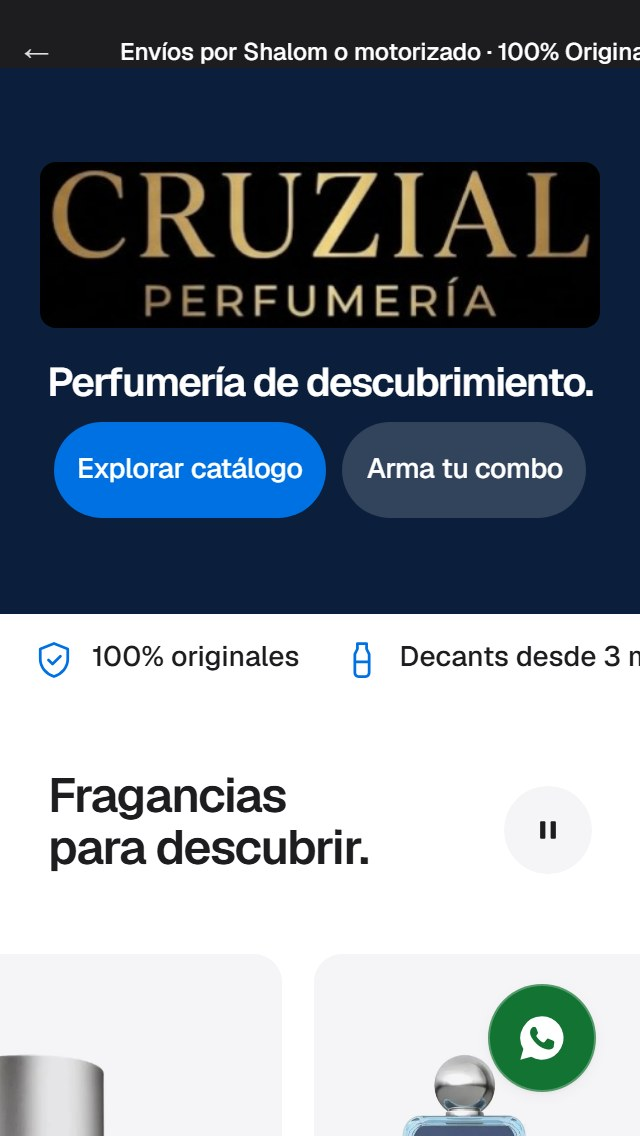
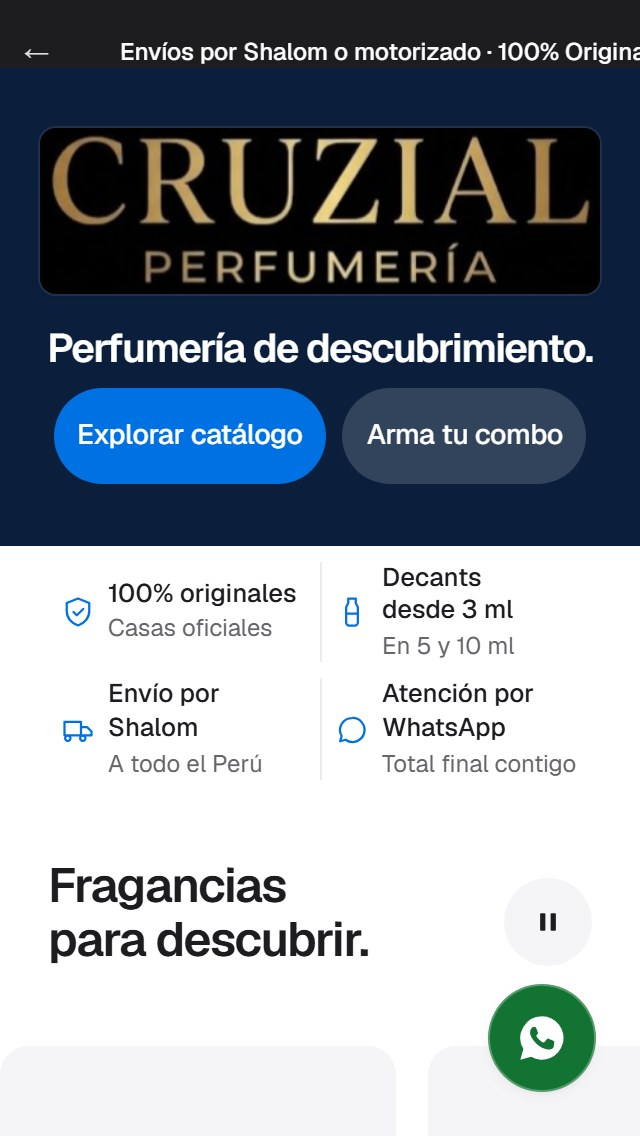
design(hero): F adjustments - plate ring, essentials as 2x2 with short copy, hero 42% on short phones
- plate: 1px ring (navy 92% + white 8%) and a faint lift so the black plaque reads as intentional
- essentials strip: no horizontal scroll; A/B/C measured, B (2x2, 3-4 word second line) chosen
- hero 45%, 42% when <=700px tall; first carousel card visible 156/81/68/45px at 390x844/375x667/360x640/320x568
- axe 0 at 1440/768/390/375/360/320; docs section 13

Experiment on claude/hero-variants; nothing merged.

diff --git a/apps/web/src/app/parfums/page.module.css b/apps/web/src/app/parfums/page.module.css
@@ -689,45 +689,75 @@
   }
 }
 
-/* Variant F on phones: the hero is 45% of the screen, so the essentials row becomes one scrollable strip of titles (the
-   second line stays in the DOM and in the accessibility tree) and the product section starts closer, so the carousel
-   cards peek on short screens such as the iPhone SE. */
+/* Variant F on phones. The hero is 45% of the screen (42% when it is 700px tall or less), so the product section starts closer
+   and the essentials row becomes a 2x2 grid with short copy (3-4 words, both lines visible). Three forms were measured
+   (A less padding, B 2x2 short copy, C smaller icons and type): only B lets the first carousel card peek on short phones.
+   The long copy stays in the DOM for the other breakpoints. */
+.assuranceShort {
+  display: none;
+}
+
 @media (max-width: 480px) {
-  .home[data-hero="f"] .assurance {
-    width: 100%;
-    padding: 12px 16px;
-    display: flex;
-    gap: 4px;
-    overflow-x: auto;
-    scroll-snap-type: x proximity;
-    scroll-padding-inline: 16px;
-    scrollbar-width: none;
-  }
-
-  .home[data-hero="f"] .assurance li,
-  .home[data-hero="f"] .assurance li:nth-child(odd) {
-    flex: 0 0 auto;
-    padding: 0 16px 0 0;
-    gap: 8px;
-    align-items: center;
-    border-left: 0;
-    scroll-snap-align: start;
-  }
-
-  .home[data-hero="f"] .assurance li > span {
-    font-size: 0;
-  }
-
-  .home[data-hero="f"] .assurance li > span > strong {
-    font-size: 0.88rem;
-    white-space: nowrap;
-  }
-
   .home[data-hero="f"] .showcase {
     padding-top: var(--ds-space-3);
   }
 
   .home[data-hero="f"] .showcase h2 {
     font-size: clamp(1.5rem, 7vw, 1.75rem);
+  }
+
+  .home[data-hero="f"] .assurance {
+    padding-block: 12px;
+    row-gap: 12px;
+  }
+
+  .home[data-hero="f"] .assurance li {
+    gap: 8px;
+    padding-inline: 10px;
+    align-items: center;
+  }
+
+  .home[data-hero="f"] .assurance li > svg {
+    width: 20px;
+    height: 20px;
+  }
+
+  .home[data-hero="f"] .assurance li > span {
+    font-size: 0.75rem;
+    line-height: 1.3;
+  }
+
+  .home[data-hero="f"] .assurance li > span > strong {
+    font-size: 0.85rem;
+    text-wrap: balance;
+  }
+
+  .home[data-hero="f"] .assuranceFull {
+    display: none;
+  }
+
+  .home[data-hero="f"] .assuranceShort {
+    display: block;
+  }
+}
+
+@media (max-width: 340px) {
+  .home[data-hero="f"] .assurance {
+    padding-block: 8px;
+    row-gap: 8px;
+  }
+
+  .home[data-hero="f"] .assurance li {
+    gap: 6px;
+    padding-inline: 6px;
+  }
+
+  .home[data-hero="f"] .assurance li > svg {
+    width: 18px;
+    height: 18px;
+  }
+
+  .home[data-hero="f"] .assurance li > span > strong {
+    font-size: 0.8rem;
   }
 }

diff --git a/apps/web/src/app/parfums/page.tsx b/apps/web/src/app/parfums/page.tsx
@@ -31,10 +31,10 @@ export const metadata: Metadata = {
 // A single established brand banner keeps the Parfums hero focused. The sets'
 // own photographs appear in their dedicated section further down the page.
 const assurances = [
-  { title: "100% originales", text: "Frascos auténticos de casas oficiales", icon: <path d="M12 3 4.5 6v5.5c0 4.4 3.1 8 7.5 9.5 4.4-1.5 7.5-5.1 7.5-9.5V6L12 3Zm-3 9 2.2 2.2L15.5 10" /> },
-  { title: "Decants desde 3 ml", text: "También en 5 y 10 ml", icon: <path d="M9.5 3h5v3l1.4 2.8V19a2 2 0 0 1-2 2h-3.8a2 2 0 0 1-2-2V8.8L9.5 6V3Zm-1.5 10h8" /> },
-  { title: "Envío por Shalom", text: "A todo el Perú", icon: <path d="M3 6.5h11v9H3zM14 10h4l3 3v2.5h-7M7 17.5a1.8 1.8 0 1 0 0 .01M17 17.5a1.8 1.8 0 1 0 0 .01" /> },
-  { title: "Atención por WhatsApp", text: "Stock y total final contigo", icon: <path d="M12 4a8 8 0 0 0-6.9 12l-1 3.5 3.6-1A8 8 0 1 0 12 4Z" /> },
+  { title: "100% originales", text: "Frascos auténticos de casas oficiales", short: "Casas oficiales", icon: <path d="M12 3 4.5 6v5.5c0 4.4 3.1 8 7.5 9.5 4.4-1.5 7.5-5.1 7.5-9.5V6L12 3Zm-3 9 2.2 2.2L15.5 10" /> },
+  { title: "Decants desde 3 ml", text: "También en 5 y 10 ml", short: "En 5 y 10 ml", icon: <path d="M9.5 3h5v3l1.4 2.8V19a2 2 0 0 1-2 2h-3.8a2 2 0 0 1-2-2V8.8L9.5 6V3Zm-1.5 10h8" /> },
+  { title: "Envío por Shalom", text: "A todo el Perú", short: "A todo el Perú", icon: <path d="M3 6.5h11v9H3zM14 10h4l3 3v2.5h-7M7 17.5a1.8 1.8 0 1 0 0 .01M17 17.5a1.8 1.8 0 1 0 0 .01" /> },
+  { title: "Atención por WhatsApp", text: "Stock y total final contigo", short: "Total final contigo", icon: <path d="M12 4a8 8 0 0 0-6.9 12l-1 3.5 3.6-1A8 8 0 1 0 12 4Z" /> },
 ] as const;
 
 const heroArtwork = {
@@ -149,7 +149,7 @@ export default async function ParfumsHomePage({ searchParams }: { searchParams: 
         {assurances.map((item) => (
           <li key={item.title}>
             <svg width="22" height="22" viewBox="0 0 24 24" fill="none" stroke="currentColor" strokeWidth="1.5" strokeLinecap="round" strokeLinejoin="round" aria-hidden="true">{item.icon}</svg>
-            <span><strong>{item.title}</strong>{item.text}</span>
+            <span><strong>{item.title}</strong>{heroVariant === "f" ? <><span className={styles.assuranceFull}>{item.text}</span><span className={styles.assuranceShort}>{item.short}</span></> : item.text}</span>
           </li>
         ))}
       </ul>

diff --git a/apps/web/src/components/parfums/home/hero-carousel.module.css b/apps/web/src/components/parfums/home/hero-carousel.module.css
@@ -489,7 +489,7 @@
 
 /* F - "Tipográfica": phones get the official logo.jpeg, untouched, on a solid --ds-color-navy hero and no product image, in
    the manner of the AirPods / HomePod pages. The file keeps its own near-black ground, so it reads as a plaque on the
-   navy; nothing is keyed, blended or edited. The hero is 45% of the screen (48% when it is 700px tall or less) and the
+   navy; nothing is keyed, blended or edited. The hero is 45% of the screen (42% when it is 700px tall or less) and the
    wordmark is capped at 280px. Desktop keeps the 21:9 art (the same wordmark, baked in). */
 @media (max-width: 767px), (max-width: 1100px) and (orientation: portrait) {
   .hero[data-variant="f"] {
@@ -507,6 +507,11 @@
     margin-inline: auto;
     overflow: hidden;
     border-radius: var(--ds-radius-sm);
+    /* The logo file keeps its near-black ground: a 1px ring a little lighter than the navy (and a faint lift) makes it
+       read as a deliberate panel. Zero-offset ring, not an opaque border (DESIGN.md section 5). */
+    box-shadow:
+      0 0 0 1px color-mix(in srgb, var(--ds-color-navy) 92%, var(--ds-white)),
+      0 1px 2px rgba(0, 0, 0, 0.15);
   }
 
   .hero[data-variant="f"] .imageD {
@@ -558,7 +563,7 @@
 
 @media (max-height: 700px) and (max-width: 767px) {
   .hero[data-variant="f"] {
-    min-height: 48svh;
+    min-height: 42svh;
   }
 }
 

diff --git a/docs/hero-variants.md b/docs/hero-variants.md
@@ -338,6 +338,9 @@ píxeles). La versión inicial de F tenía tres defectos y se corrige antes del 
 | 2 | Altura del héroe en móvil | 60 % | **45 %** (**48 %** en pantallas ≤ 700 px de alto) |
 | 3 | Ancho máximo del wordmark | 337 px (letras «CRUZIAL» de 322 px) | **280 px** (letras de **268 px**) |
 
+> **Actualización (§13):** la altura pasa a 42 % en pantallas ≤ 700 px de alto y la franja de garantías vuelve a una rejilla 2 × 2 con
+> texto corto; la placa recibe un aro. Las cifras de §10.3 son anteriores a ese ajuste; las vigentes están en §13.3.
+
 ### 10.1 Razón por la que se descarta el keying de luminancia
 
 1. **Es una edición del activo de marca.** Convertir el negro en transparencia produce un archivo nuevo (`alfa = f(luminancia)`), no el
@@ -436,3 +439,82 @@ incluir los cambios de apoyo de `page.module.css` y `page.tsx`, o decidir otra f
 
 (El «T20» provisional de `docs/design-audit-2026-10-11.md`, «decidir el héroe», queda resuelto por esta decisión; esa auditoría
 vive en el PR de evidencia y conviene renumerarla allí.)
+
+## 13. Ajustes tras aprobar F: placa intencional y franja de garantías sin comprimir
+
+F queda aprobada con dos cambios sobre §10 (que se corrigen aquí): la placa negra sobre navy (contraste 1.27:1) se leía como un
+accidente, y la franja de garantías en una línea con desplazamiento horizontal escondía contenido que existe para dar confianza.
+
+### 13.1 La placa se lee como panel
+
+- Se añade un **aro de 1 px** con un navy algo más claro y una **elevación mínima**:
+  `box-shadow: 0 0 0 1px color-mix(in srgb, var(--ds-color-navy) 92%, var(--ds-white)), 0 1px 2px rgba(0,0,0,.15)`.
+- El aro resuelve a `#1F314D` (HSL 217° / 43 % / **21 %**, frente a 216° / 69 % / **14 %** del navy: **+7 puntos de luminosidad**,
+  ≈ 1.4:1 contra el navy). Se hizo con `color-mix` sobre el token, sin hex nuevo, y como **anillo de desplazamiento 0** (no como borde
+  opaco: `DESIGN.md` §5 prohíbe los bordes opacos de 1 px; un anillo de `box-shadow` es lo que el sistema permite).
+- El archivo sigue sin tocarse; el aro y la sombra son CSS del contenedor.
+
+### 13.2 Franja de garantías: tres alternativas medidas (todas con la segunda línea visible)
+
+Medido en Chromium con el héroe al 45 % (48 % en pantallas ≤ 700 px de alto, la regla anterior). «Tarjeta» = píxeles visibles de la
+primera tarjeta del carrusel (mínimo exigido: 40); negativo = no asoma.
+
+| Variante | Qué cambia | Franja 390 × 844 / 375 × 667 / 360 × 640 / 320 × 568 | Tarjeta visible (mismos tamaños) |
+|---|---|---|---|
+| Sin tocar | — | 228 / 228 / 266 / 304 px | 70 / −65 / −115 / −188 |
+| **A** | menos relleno vertical (12 px) | 192 / 192 / 230 / 268 px | 106 / −29 / −79 / −152 |
+| **B** | **2 × 2, icono de 20 px y texto corto (≤ 4 palabras)** | **142 / 142 / 142 / 157 px** | **156 / 41 / 30 / −41** |
+| **C** | iconos de 18 px y tipografía menor, misma estructura y texto | 151 / 153 / 153 / 183 px | 147 / 30 / 18 / −66 |
+
+Con el héroe al **42 %** en pantallas cortas: B pasa a **182 / 81 / 68 / 13** px y C a 172 / 70 / 57 / −32. A no se repitió con 42 %:
+restando los 40 / 38 / 34 px que libera el héroe (extrapolación aritmética) quedaría en 11 / −41 / −118 en las tres pantallas
+cortas, sin llegar nunca a 40 en 360 × 640 y 320 × 568.
+
+**Elegida: B.** Es la única que, con el héroe al 42 %, deja asomar la tarjeta en 375 × 667 y 360 × 640 y la única que se acerca en
+320 × 568 (13 px). A recorta sólo 36 px porque el cuello de botella no es el relleno sino el **salto de línea** del texto largo en
+dos columnas estrechas; C no lo evita. B ataca la causa (menos palabras) sin esconder nada.
+
+Para 320 × 568 B necesita además una compactación ≤ 340 px (relleno de 8 px, iconos de 18 px, títulos de 12.8 px; el texto
+secundario se mantiene en **12 px**, el mínimo del sistema: una primera pasada con 11.2 px se descartó por incumplir `DESIGN.md` §10).
+
+**Copy de B (3–4 palabras, sólo en ≤ 480 px y sólo en `?hero=f`):**
+
+| Título (no cambia) | Segunda línea antes | Segunda línea en B |
+|---|---|---|
+| 100% originales | Frascos auténticos de casas oficiales | **Casas oficiales** |
+| Decants desde 3 ml | También en 5 y 10 ml | **En 5 y 10 ml** |
+| Envío por Shalom | A todo el Perú | **A todo el Perú** (sin cambio) |
+| Atención por WhatsApp | Stock y total final contigo | **Total final contigo** |
+
+El texto largo sigue en el DOM y es el que se ve a partir de 481 px; en ≤ 480 px se muestra el corto (el otro queda en
+`display: none`, así que los lectores de pantalla leen sólo el visible). **Hay que validar con el cliente** que el acortado conserva el
+mensaje: «Casas oficiales» pierde «frascos auténticos» y «Total final contigo» pierde «stock», aunque el título «100% originales» y
+el cierre por WhatsApp se mantienen. No se añade ningún claim nuevo.
+
+### 13.3 Verificación final (hero 45 % / 42 %, B, aro)
+
+| | 390 × 844 | 375 × 667 | 360 × 640 | 320 × 568 |
+|---|---|---|---|---|
+| Altura del héroe | 380 px (**45 %**) | 280 px (**42 %**) | 269 px (**42 %**) | 239 px (**42 %**) |
+| Franja de garantías (sin scroll horizontal) | 142 px | 142 px | 142 px | 126 px |
+| **Primera tarjeta del carrusel visible** (≥ 40 px) | **156 px** | **81 px** | **68 px** | **45 px** |
+| Título de la sección visible | 256 px | 179 px | 163 px | 138 px |
+| Segunda línea de cada garantía visible | sí | sí | sí | sí |
+| Texto más pequeño de la franja | 12.0 px | 12.0 px | 12.0 px | 12.0 px |
+| Scroll horizontal de la página | no | no | no | no |
+| Contraste del `h1` sobre navy | 16.4 | 16.4 | 16.4 | 16.4 |
+| CTA | 48 px | 48 px | 48 px | 48 px |
+| axe (WCAG 2.2 A/AA) | 0 violaciones | 0 | 0 | 0 |
+
+axe también limpio a 1440 y 768 px. Capturas: `docs/hero-variants/hero-f-tipografica-{390x844,375x667,360x640,320x568,768x1024}.jpg`.
+
+![F 375 × 667](hero-variants/hero-f-tipografica-375x667.jpg)
+![F 320 × 568](hero-variants/hero-f-tipografica-320x568.jpg)
+
+### 13.4 Qué cambia respecto a §10
+
+- Altura en pantallas ≤ 700 px de alto: **42 %** (antes 48 %). En el resto sigue en 45 %.
+- La franja de garantías **deja de ser una tira con scroll horizontal**: vuelve a ser una rejilla 2 × 2 con las dos líneas visibles.
+- Se mantiene el título de la sección del carrusel 24 px más arriba y algo menor en ≤ 480 px (§10.2).
+- Límites que persisten: la placa sigue siendo la del JPEG (T20, wordmark en SVG), y la integración debe llevar los cambios de
+  `page.tsx` y `page.module.css` (copy corto incluido) además del héroe.
